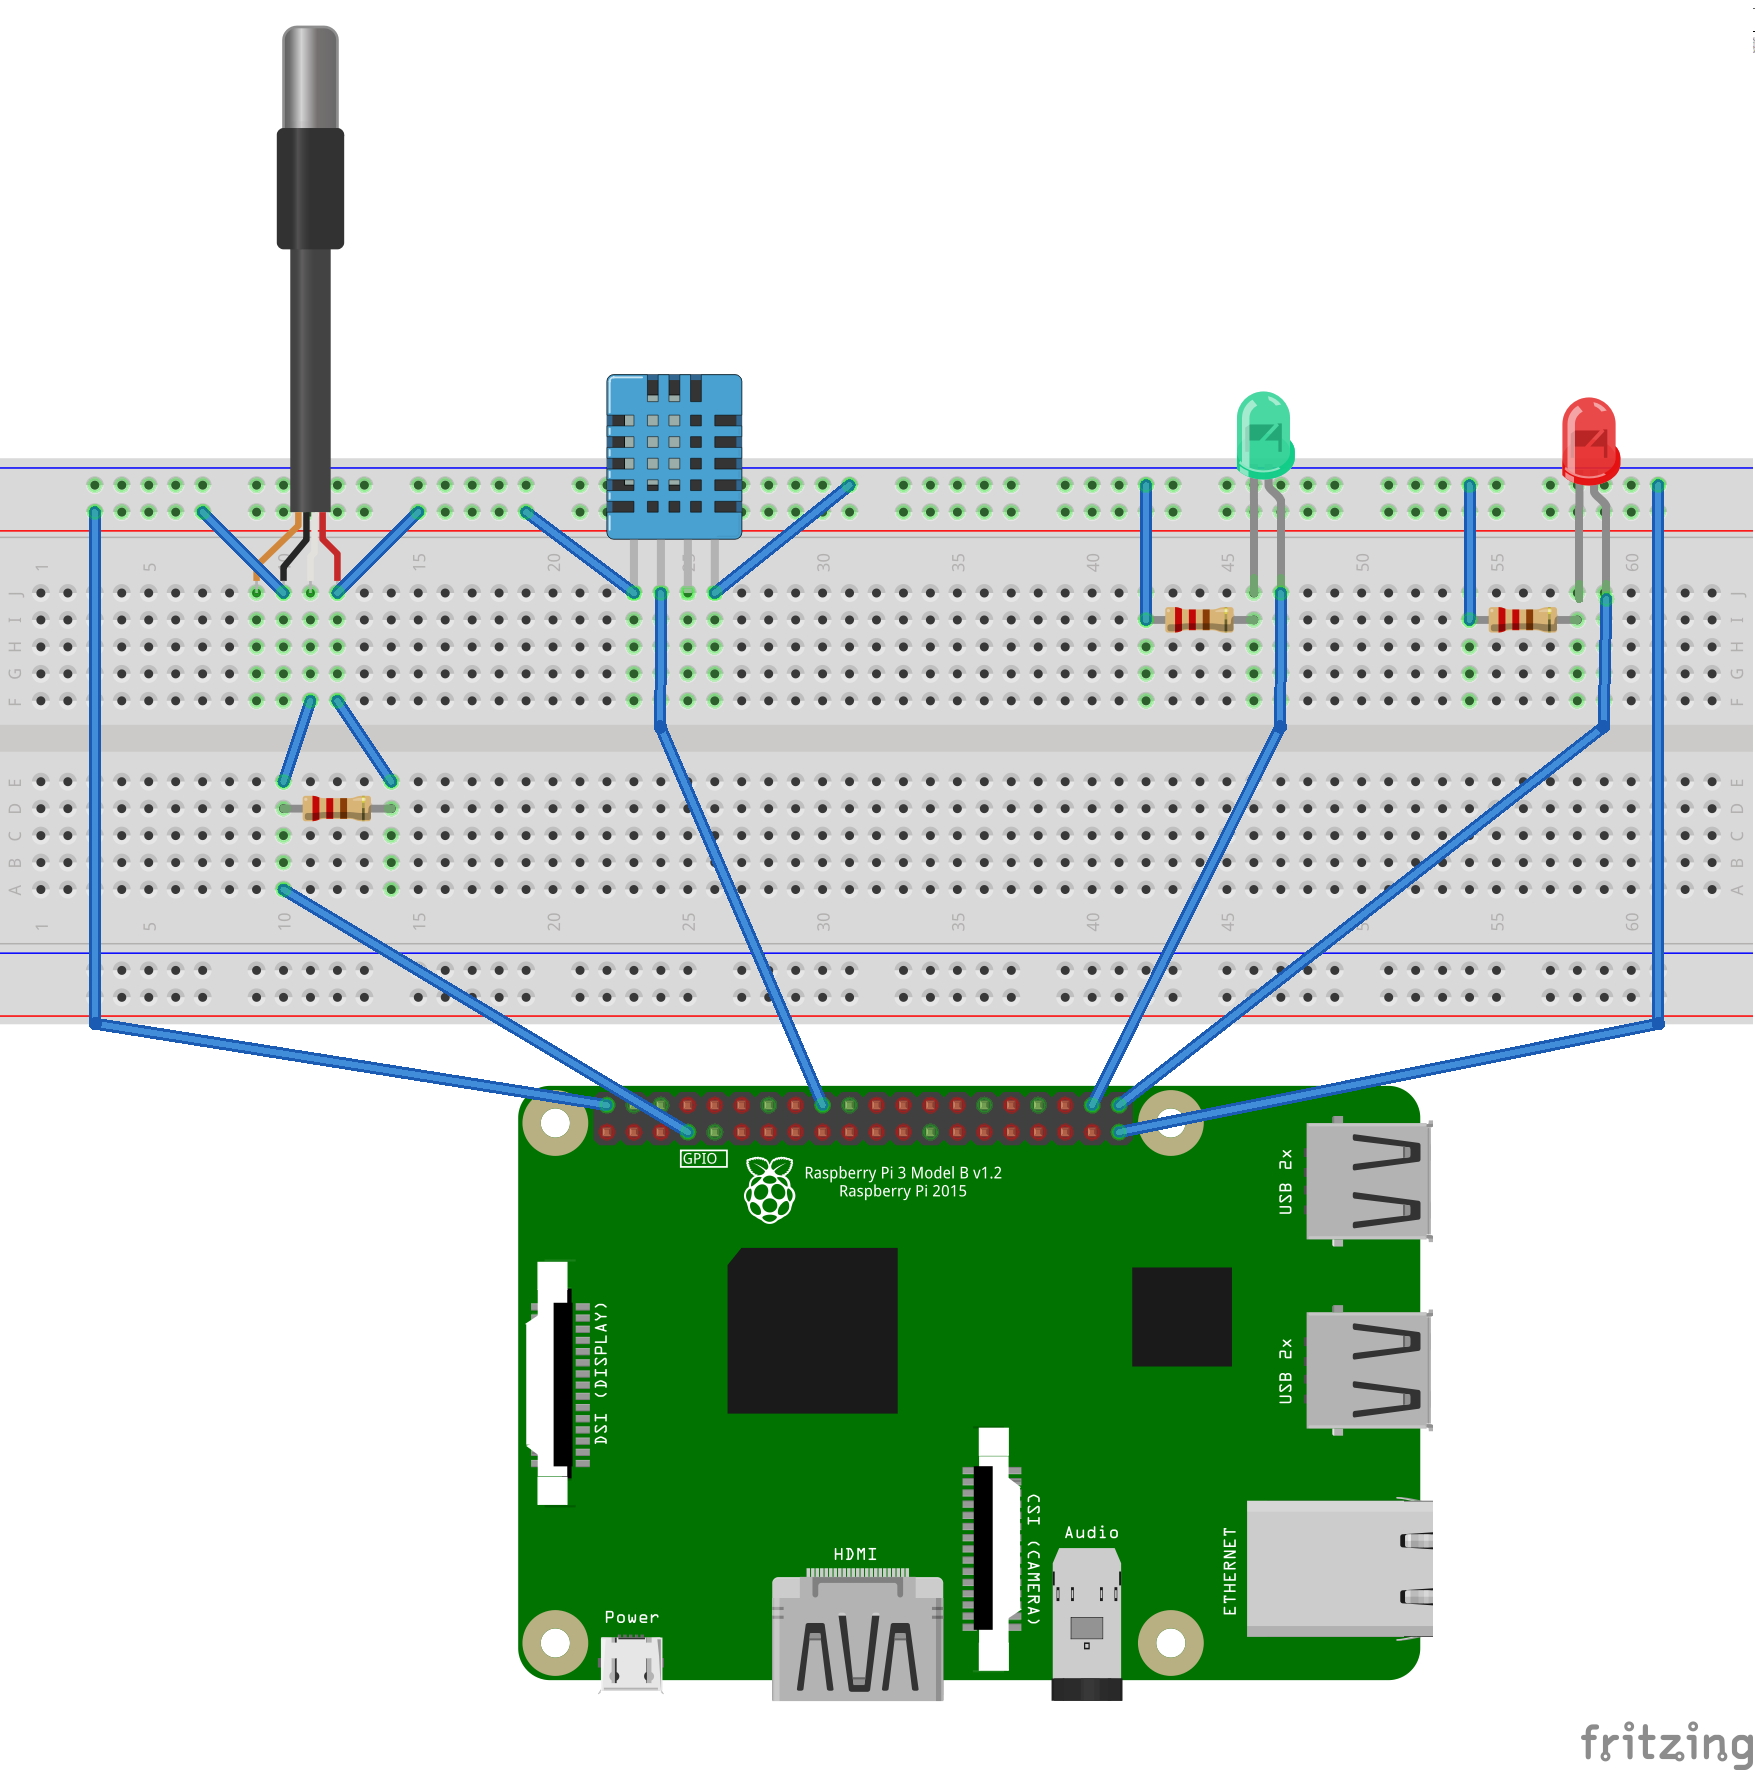
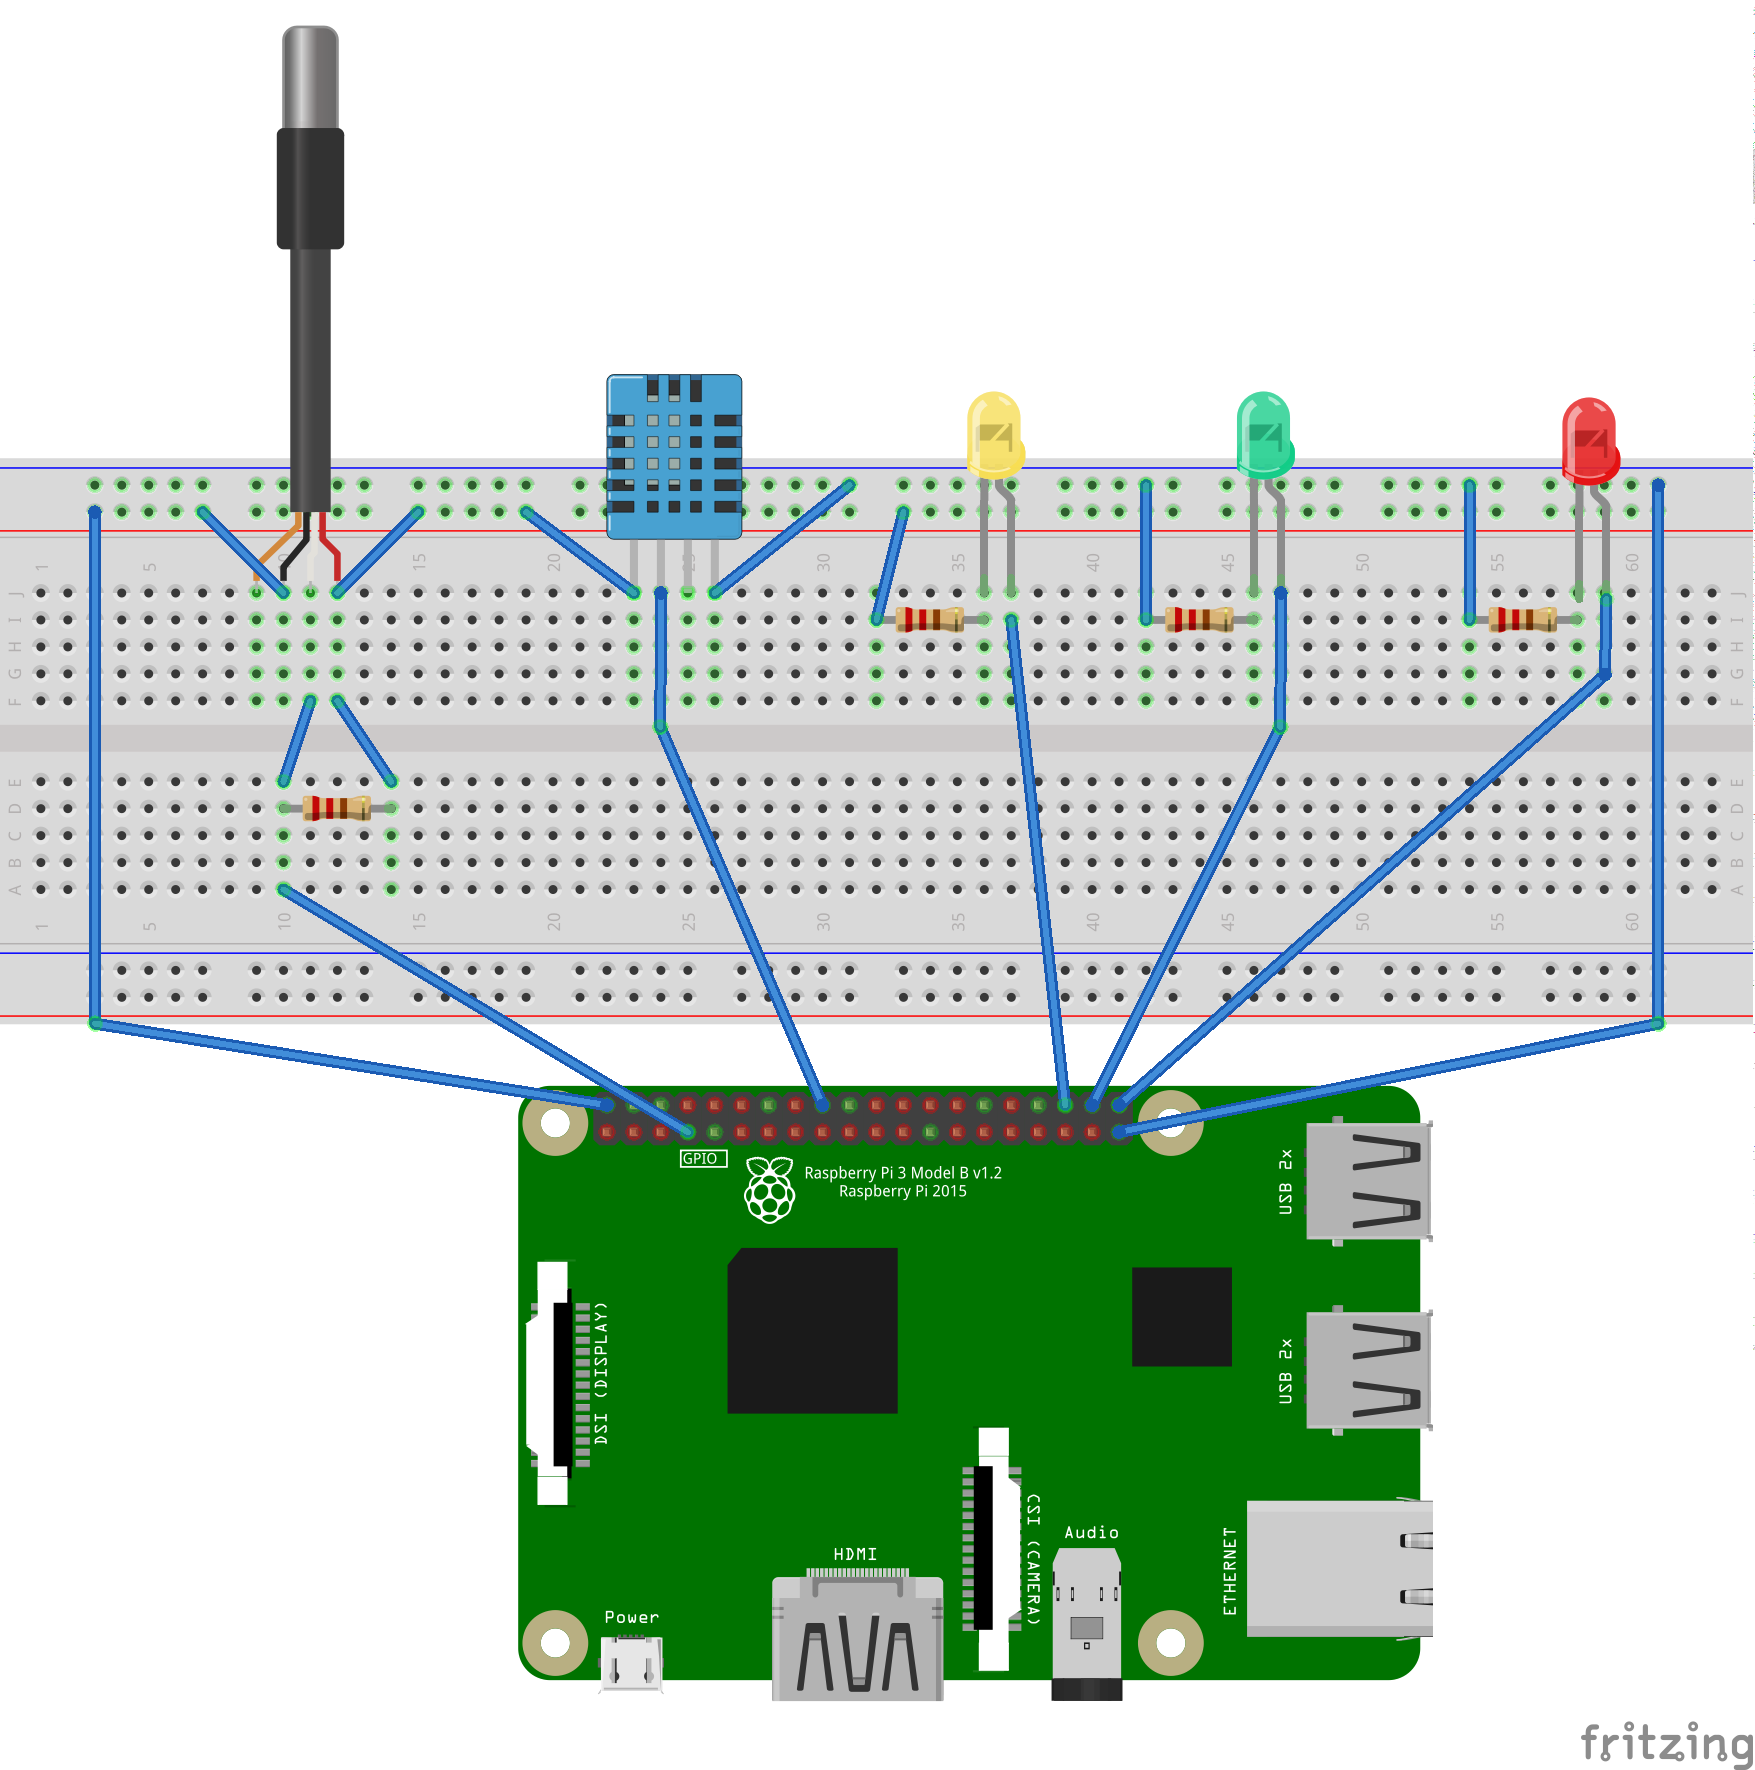
Blinking LED when reading from socket

diff --git a/src/config/index.js b/src/config/index.js
@@ -6,6 +6,7 @@ import { DS18B20Sensor } from "../models/ds18b20Sensor";
 const config = require(`./${process.env.NODE_ENV}`).default;
 const successLed = new LED(config.successLedGPIO, config.ledBlinkDurationInMs, config.ledBlinkTotalPeriodInMs);
 const errorLed = new LED(config.errorLedGPIO, config.ledBlinkDurationInMs, config.ledBlinkTotalPeriodInMs);
+const ackLed = new LED(config.ackLedGPIO, config.ledBlinkDurationInMs, config.ledBlinkTotalPeriodInMs);
 const dhtIndoorSensor = new DHTSensor(
   config.dhtType,
   config.dhtGPIO,
@@ -24,5 +25,6 @@ export default {
   },
   successLed,
   errorLed,
+  ackLed,
   sensors,
 };

diff --git a/src/handlers/socketHandler.js b/src/handlers/socketHandler.js
@@ -1,6 +1,7 @@
 import os from "os";
 import { Log } from "../util/log";
 import { SensorHandler } from "./sensorHandler";
+import { LEDHandler } from "./ledHandler";
 import config from "../config";
 
 export class SocketHandler {
@@ -63,6 +64,7 @@ export class SocketHandler {
           try {
             const measurementList = await SensorHandler.read();
             const data = SocketHandler._getData(measurementList);
+            LEDHandler.blinkAck();
             SocketHandler._emit(socket, data);
           } catch (err) {
             Log.logError(err);

diff --git a/src/config/production.js b/src/config/production.js
@@ -11,6 +11,7 @@ export default {
   topic: process.env.IOT_RASPI_TOPIC,
   successLedGPIO: process.env.IOT_RASPI_SUCCESS_LED_GPIO,
   errorLedGPIO: process.env.IOT_RASPI_ERROR_LED_GPIO,
+  ackLedGPIO: process.env.IOT_RASPI_ACK_LED_GPIO,
   ledBlinkDurationInMs: process.env.IOT_RASPI_LED_BLINK_DURATION_IN_MS,
   ledBlinkTotalPeriodInMs: process.env.IOT_RASPI_LED_BLINK_TOTAL_IN_MS,
   dhtType: process.env.IOT_RASPI_DHT_TYPE,

diff --git a/src/server.js b/src/server.js
@@ -20,9 +20,11 @@ server.listen(config.nodePort, err => {
 server.on("error", err => {
   Log.logError(`Error in NodeJS server on port ${config.socketServerPort}:`);
   Log.logError(err);
+  socketHandler.close();
 });
 server.on("close", () => {
   Log.logInfo(`Stopped NodeJS server on port ${config.nodePort}`);
+  socketHandler.close();
 });
 
 const socketHandler = new SocketHandler(io);

diff --git a/src/models/led.js b/src/models/led.js
@@ -20,4 +20,13 @@ export class LED {
       this.onoff.unexport();
     }, this.blinkTotalPeriodInMs);
   }
+  blinkAck() {
+    const interval = setInterval(() => {
+      this.onoff.writeSync(this.onoff.readSync() === 0 ? 1 : 0);
+    }, 50);
+    setTimeout(() => {
+      clearInterval(interval);
+      this.onoff.writeSync(0);
+    }, 500);
+  }
 }

diff --git a/src/config/development.js b/src/config/development.js
@@ -11,6 +11,7 @@ export default {
   topic: "home/raspi",
   successLedGPIO: 20,
   errorLedGPIO: 21,
+  ackLedGPIO: 16,
   ledBlinkDurationInMs: 100,
   ledBlinkTotalPeriodInMs: 5000,
   dhtType: 11,

diff --git a/src/handlers/ledHandler.js b/src/handlers/ledHandler.js
@@ -12,4 +12,8 @@ export class LEDHandler {
     Log.logInfo(`${led} blinking for error`);
     led.blink();
   }
+  static blinkAck() {
+    const led = config.ackLed;
+    led.blinkAck();
+  }
 }

diff --git a/README.md b/README.md
@@ -12,8 +12,8 @@ It also has a lightweight socket server for providing real time sensor data.
 
 * [DHT11](https://www.adafruit.com/product/386)
 * [DS18B20](https://www.adafruit.com/product/381)
-* 3 x 220Ω Resistor
-* 2 x LED
+* 4 x 220Ω Resistor
+* 3 x LED
 
 ### Wiring
 
@@ -61,7 +61,7 @@ Images available on [Docker Hub](https://hub.docker.com/):
 
 Configuration:
 
-* [.env](https://github.com/mmontes11/iot-raspi-sensors/blob/develop/.env)
+* Create a `.env` with this [variables](https://github.com/mmontes11/iot-raspi-sensors/blob/develop/src/config/production.js)
 
 
 ```bash
